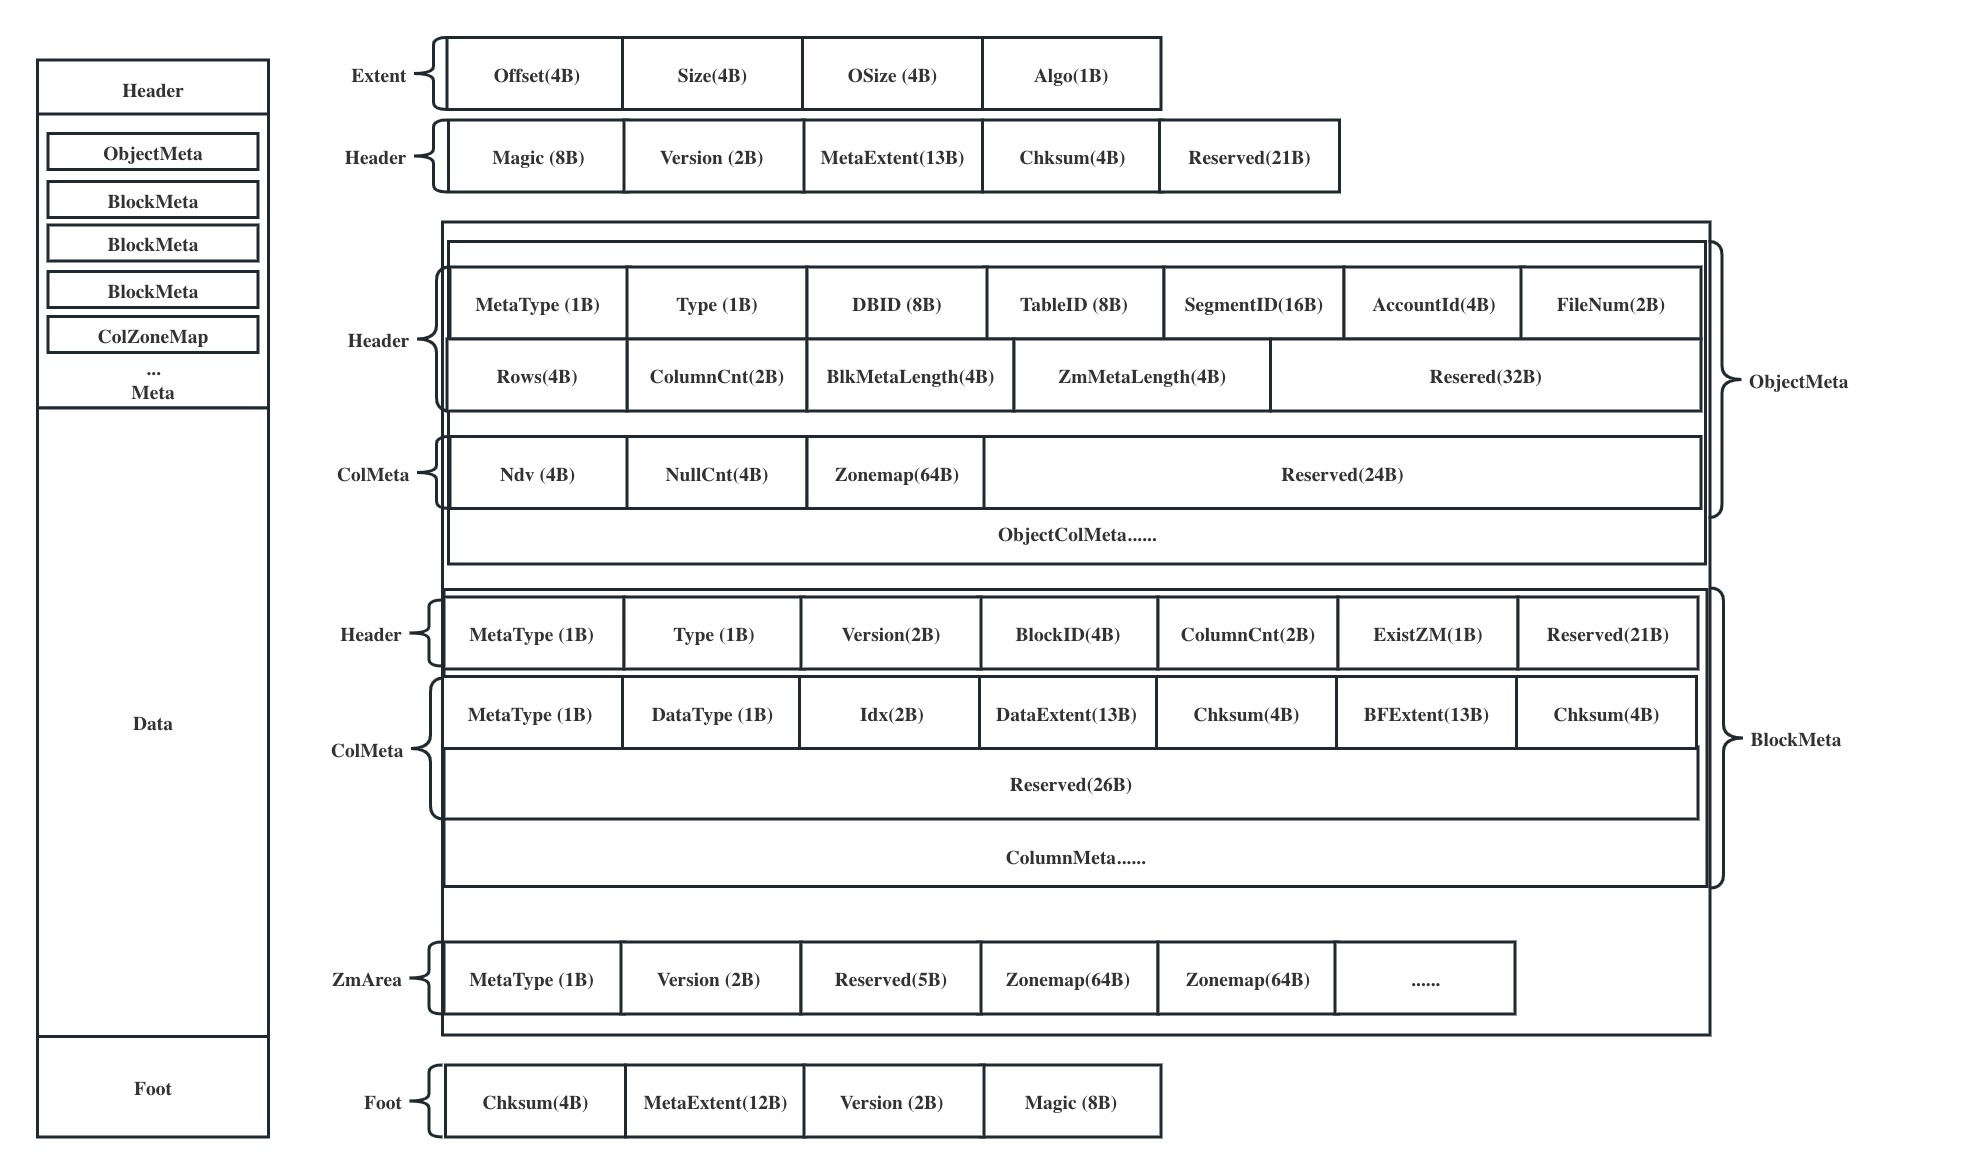
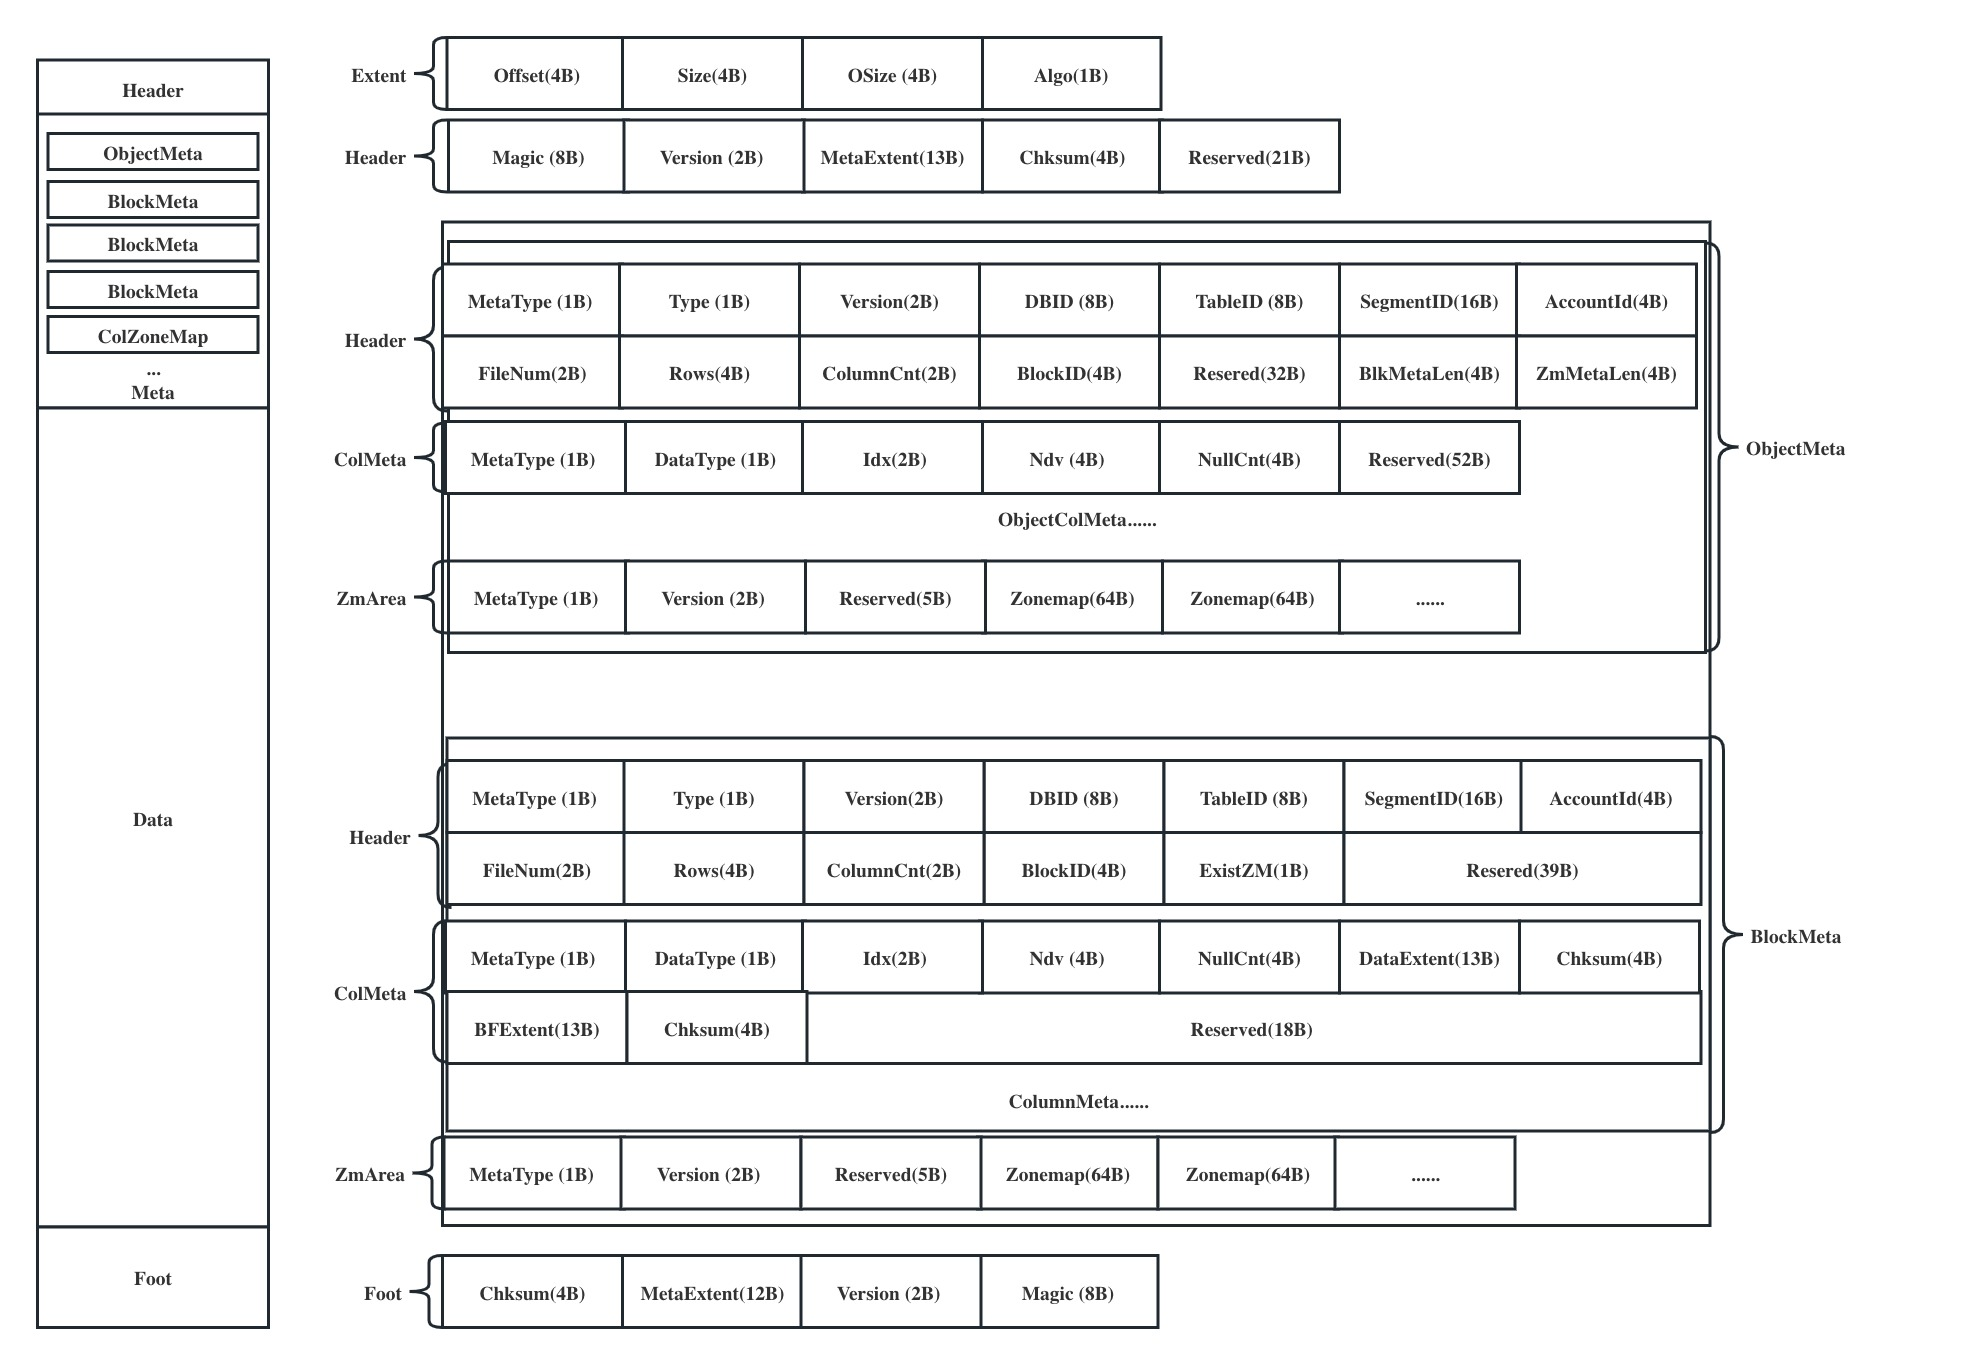
Update review

diff --git a/layout/layout.md b/layout/layout.md
@@ -100,6 +100,7 @@ Reserved = 21 bytes reserved space
 ```
 ##### Object Meta
 An object can only have one ObjectMeta item
+ObjectMeta needs to be consistent with BlockMeta to reduce code duplication
 ```
 +--------------+---------+---------+------------+-----------------+-------------+--------+
 | MetaType(1B) | Type(1B)| DBID(8B)| TableID(8B)| SegmentID(16B)  |AccountID(4B)|Num(2B) |
@@ -112,9 +113,24 @@ An object can only have one ObjectMeta item
            +--------+------------+------------+-------------+
            | Ndv(4B)| NullCnt(4B)| Zonemap(64)| Resered(24B)|
            +--------+------------+------------+-------------+
-                                     
+           
+           
+           
++--------------+---------+-------------+------------+--------------+--------------+----------------+
+| MetaType(1B) | Type(1B)| Version(2B) |  DBID(8B)  | TableID(8B)  |SegmentID(16B)| AccountID(4B)  |
++--------------+---------+-------------+------------+--------------+-------------------------------+
+|    Num(2B)   | Rows(4B)|ColumnCnt(2B)| Resered(4B)| Resered(32B) |BlkMetaLen(4B)|ZmMetaLength(4B)|
++--------------+---------+-------------+------------+--------------+--------------+----------------+
+| <Col1>|<Col2>|<Col3>|<Col4>|<Col5>|<Col6>|<Col7>|<Col8>|<Col9>|   .....   |Zonemap Area|
+                          |                                          
+                          |                                                      
++------------+--------+-------+-------+-----------+-------------+
+|MetaType(1B)|Type(1B)|Idx(2B)|Ndv(4B)|NullCnt(4B)|Reserved(52B)|      
++------------+--------+-------+-------+-----------+-------------+
+                                                                                                                                  
 MetaType = 00
 Type = Object enumeration type
+Version = Object file version
 DBID = Database id
 TableID = Table id
 SegmentID = Segment id
@@ -122,12 +138,16 @@ AccountID = Account id
 Num = File number
 Rows = How many rows are contained in object
 ColumnCnt = The number of column in the object zonemap
-BlkMetaExtent = Extent of block metada
-ZmMetaExtent = Extent of block zonemap area
+BlkMetaLen = Length of block metada
+ZmMetaLen = Length of block zonemap area
 
+ObjectColMeta
+MetaType = 02
+Type = The data type of the Column
+Idx = Column index
 Ndv = How many distinct values in the column
 NullCnt = How many Null values in the column
-Zonemap = Contains tow 32B values: min and max
+Reserved = 52B For consistency with Columnmeta
 
 ```
 ##### Block Meta Header
@@ -139,9 +159,11 @@ Zonemap = Contains tow 32B values: min and max
        |
 +----------------------------------------------------------------------------------------------------+
 |                                              Header                                                |
-+------------+--------+-----------+-----------+-------------+-----------+----------------------------+
-|MetaType(1B)|Type(1B)|Version(2B)|BlockID(4B)|ColumnCnt(2B)|ExistZM(1B)|        Reserved(21B)       |
-+------------+--------+-----------+-----------+-------------+-----------+----------------------------+
++--------------+---------+-------------+------------+--------------+--------------+------------------+
+| MetaType(1B) | Type(1B)| Version(2B) |  DBID(8B)  | TableID(8B)  |SegmentID(16B)|   AccountID(4B)  |
++--------------+---------+-------------+------------+--------------+---------------------------------+
+|    Num(2B)   | Rows(4B)|ColumnCnt(2B)| BlockID(4B)| ExistZM(1B)  |           Reserved(39B)         |
++--------------+---------+-------------+------------+--------------+---------------------------------+
 |                                             ColumnMeta                                             |
 +----------------------------------------------------------------------------------------------------+
 |                                             ColumnMeta                                             |
@@ -151,26 +173,36 @@ Zonemap = Contains tow 32B values: min and max
 |                                             ..........                                             |
 +----------------------------------------------------------------------------------------------------+
 
-BlockMetaHeader Size = 32B
+BlockMetaHeader Size = 92B (=ObjectMetaHeader size)
 MetaType = 01
 Type = Object enumeration type
 Version = version of block data(vector)
-BlockID = Block id
+DBID = Database id
+TableID = Table id
+SegmentID = Segment id
+AccountID = Account id
+Num = File number
+Rows = How many rows are contained in object
 ColumnCnt = The number of column in the block
+BlockID = Block id
 ExistZM = Whether to write zonemap
 ```
 ##### Column Meta
 ```
-+------------------------------------------------------------------------------------------------------+
-|                                            DataColumnMeta                                            |
-+-------------+--------+--------+----------------+----------+----------------+----------+--------------+
-|MetaType(1B) |Type(1B)| Idx(2B)| DataExtent(13B)|Chksum(4B)|  BFExtent(13B) |Chksum(4B)| Reserved(26B)|
-+-------------+--------+--------+----------------+----------+----------------+----------+--------------+
++--------------------------------------------------------------------------------+
+|                                  DataColumnMeta                                |
++-------------+----------+-------+-------+-----------+---------------+-----------+
+|MetaType(1B) |Type(1B)  |Idx(2B)|Ndv(4B)|NullCnt(4B)|DataExtent(13B)|Chksum(4B) |    
++-------------+----------+-------+-------+-----------+---------------+-----------+
+|BFExtent(13B)|Chksum(4B)|                     Reserved(18B)                     |
++-------------+----------+-------+-------+-----------+---------------+-----------+
 
 ColumnMeta Size = 64B
 MetaType = 02
 Type = The data type of the Column
 Idx = Column index
+Ndv = How many distinct values in the column
+NullCnt = How many Null values in the column
 DataExtent = Exten of Column Data
 Chksum = Column Data checksum
 BFExtent = Exten of BloomFilter
@@ -221,11 +253,11 @@ Aborted           = Whether to be aborted
 ### Delete Block
 #### Schema
 ```
-+------------------+-------------+------------+
-|      RowID       |   CommitTs  |  Aborted   |
-+------------------+-------------+------------+
-|  Type.T_Rowid    |  Type.T_TS  |types.T_bool|
-+------------------+-------------+------------+
++------------------+-------------+------------+-------------+
+|      RowID       |   CommitTs  |  Aborted   | PrimaryKey  |
++------------------+-------------+------------+-------------+
+|  Type.T_Rowid    |  Type.T_TS  |types.T_bool| types.T_any |             
++------------------+-------------+------------+-------------+
 
 RowID             = ID of the deleted row
 CommitTs          = The commit timestamp of the delete operation
@@ -292,7 +324,7 @@ Zonemap Length  =  64 bytes
 #### Prefetch context
 ```
 // Build the context of a prefetch request
-BuildPrefetch(reader dataio.Reader, m *mpool.MPool) prefetch
+BuildPrefetch(info []catalog.BlockInfo, m *mpool.MPool) prefetch
 
 // Add a read block request to the prefetch context
 AddBlock(idxes []uint16, ids []uint32)
@@ -304,18 +336,17 @@ AddBlock(idxes []uint16, ids []uint32)
 PrefetchWithMerged(pref prefetch) error
 
 // Simple prefetch a block
-Prefetch(idxes []uint16,ids []uint32, reader dataio.Reader, m *mpool.MPool) error
+Prefetch(idxes []uint16,ids []uint32, info []catalog.BlockInfo, m *mpool.MPool) error
 
-PrefetchMeta(reader dataio.Reader, m *mpool.MPool) error
+PrefetchMeta(info []catalog.BlockInfo, m *mpool.MPool) error
 ```
 
 #### Prefetch case
 ```go
-reader, err := dataio.NewDataReader(fileservice, MetaLocation)
 
 case 1:
 // Build prefetch context
-pref := BuildPrefetch(reader, mpool)
+pref := BuildPrefetch(info, mpool)
 idxes := []uint16{0, 2, 4}
 ids1 := []uint32{0, 2}
 pref.AddBlock(idxes, ids1)
@@ -328,11 +359,11 @@ err := PrefetchWithMerged(pref)
 case 2:
 idxes1 := []uint16{0, 2, 4}
 ids1 := []uint32{0, 2}
-err = Prefetch(idxes1, ids1, reader, mpool)
+err = Prefetch(idxes1, ids1, info, mpool)
 
 idxes2 := []uint16{1, 2}
 ids2 := []uint32{1, 3}
-err = Prefetch(idxes2, ids2, reader, mpool)
+err = Prefetch(idxes2, ids2, info, mpool)
 ```
 ##### before
 ![before.png](image/before.png)
